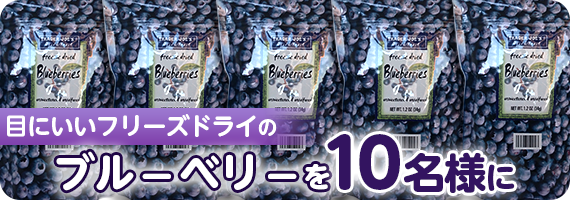
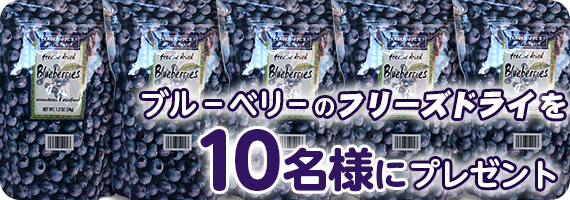
ブルベリーＬＰ修正

diff --git a/web/hbi/sougoulp_blueberry.html b/web/hbi/sougoulp_blueberry.html
@@ -79,8 +79,8 @@
     <a href="https://bbq-g.com/asp/landing">
    <img src="/bundles/machigaigame/images/parts/syuugou_tl_ bbqconro.png" width="100%" /></a>
      
-   <a href="https://www.silverstar.co.jp/ausmart/web_service/cat_reversi/line.php">       
-   <img src="/bundles/machigaigame/images/parts/syuugou_tl_neko.png" width="100%" />  </a>
+   <a href="https://app.eyefine39.com/app/campaign.php">      
+   <img src="/bundles/machigaigame/images/parts/syuugou_tl_blueberry.png" width="100%" />  </a>
         
     <a href="https://e-aquarium.jp/asp/">
    <img src="/bundles/machigaigame/images/parts/syuugou_tl_aqua.png" width="100%" /></a>
